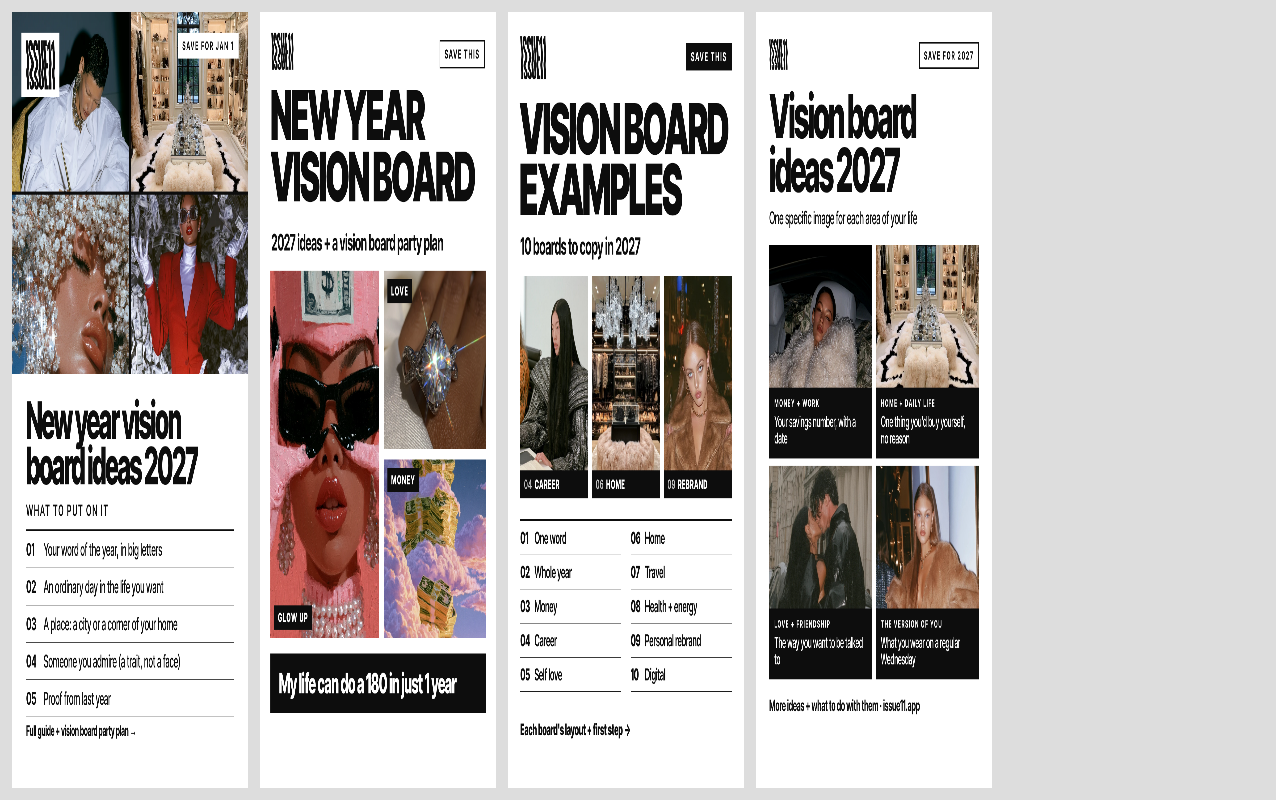
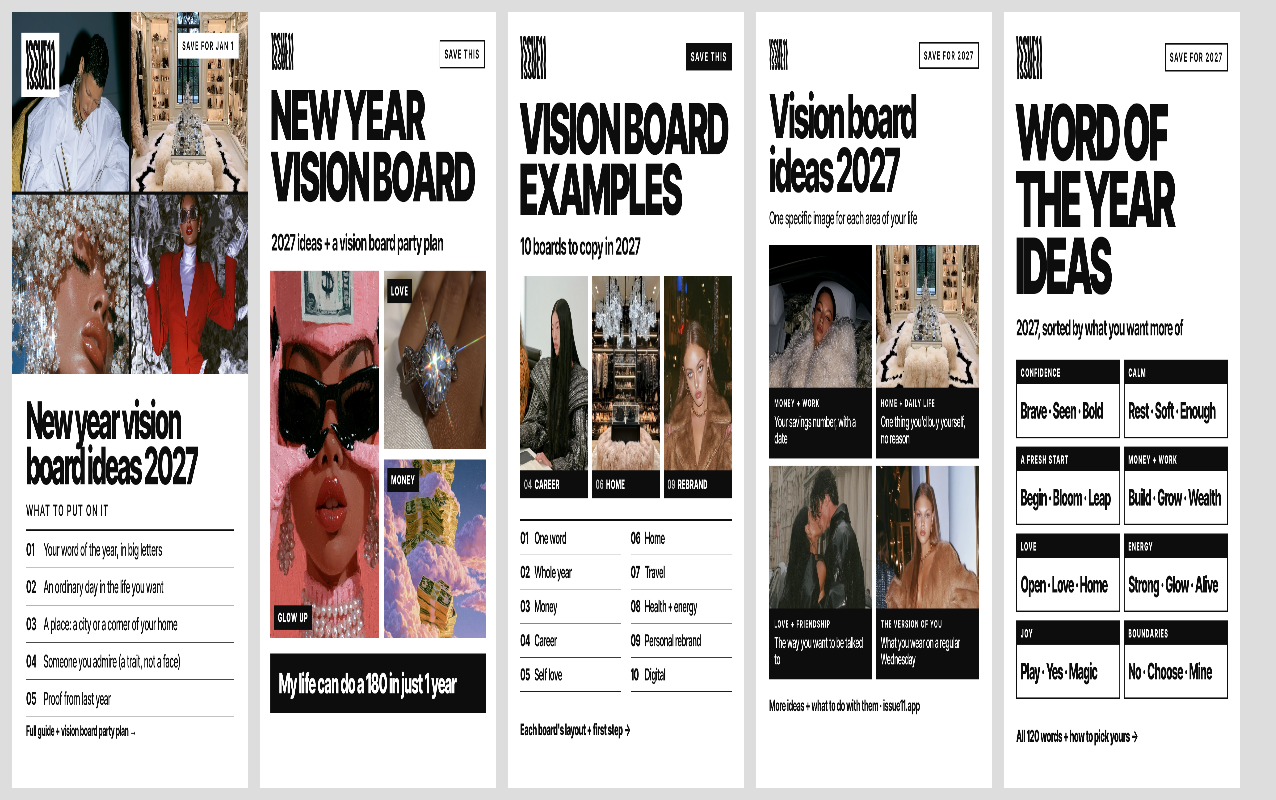
Pinterest hourly: word-of-the-year-ideas article pin (QA passed)
Claude-Session: https://claude.ai/code/session_01YGtmQppBCBt9nypMHzxSp1

Changed region(s): [[0.7641, 0.0, 0.9781, 1.0]]

diff --git a/drafts/pinterest/article-pins/ArticlePinWOTY.dc.html b/drafts/pinterest/article-pins/ArticlePinWOTY.dc.html
@@ -1,0 +1,51 @@
+<!doctype html>
+<html lang="en">
+<head>
+<meta charset="utf-8">
+<title>Article pin · word-of-the-year-ideas · 120 words for 2027</title>
+<script src="./support.js"></script>
+</head>
+<body>
+<x-dc>
+<helmet>
+<link href="https://fonts.googleapis.com/css2?family=Inter+Tight:wght@500;600;700;800;900&amp;display=swap" rel="stylesheet">
+<style>
+body{margin:0}
+.pin{width:1000px;height:1500px;position:relative;overflow:hidden;background:#fff;color:#0D0D0D;font-family:'Inter Tight',system-ui,sans-serif}
+.logo{position:absolute;left:52px;top:46px;height:84px}
+.save{position:absolute;right:52px;top:60px;border:3px solid #0D0D0D;font-weight:700;font-size:24px;letter-spacing:.16em;padding:10px 18px}
+h1{position:absolute;left:48px;right:48px;top:168px;margin:0;font-weight:900;font-size:150px;line-height:.86;letter-spacing:-.055em;text-transform:uppercase}
+.sub{position:absolute;left:52px;top:584px;font-weight:700;font-size:42px;letter-spacing:-.025em}
+.grid{position:absolute;left:52px;right:52px;top:672px;display:grid;grid-template-columns:1fr 1fr;gap:16px}
+.card{border:3px solid #0D0D0D;height:152px;box-sizing:border-box;display:flex;flex-direction:column}
+.card p{margin:0}
+.k{background:#0D0D0D;color:#fff;font-weight:800;font-size:22px;letter-spacing:.14em;text-transform:uppercase;padding:9px 16px}
+.w{flex:1;display:flex;align-items:center;padding:0 16px;font-weight:800;font-size:44px;letter-spacing:-.035em;white-space:nowrap}
+.cta{position:absolute;left:52px;top:1380px;font-size:32px;font-weight:800;letter-spacing:-.015em}
+</style>
+</helmet>
+<div class="pin">
+  <img class="logo" src="/_blob/d196614efc6265e2205729134fb523b8" alt="ISSUE11">
+  <div class="save">SAVE FOR 2027</div>
+  <h1>Word of the year ideas</h1>
+  <div class="sub">2027, sorted by what you want more of</div>
+  <div class="grid">
+    <div class="card"><p class="k">Confidence</p><p class="w">Brave · Seen · Bold</p></div>
+    <div class="card"><p class="k">Calm</p><p class="w">Rest · Soft · Enough</p></div>
+    <div class="card"><p class="k">A fresh start</p><p class="w">Begin · Bloom · Leap</p></div>
+    <div class="card"><p class="k">Money + work</p><p class="w">Build · Grow · Wealth</p></div>
+    <div class="card"><p class="k">Love</p><p class="w">Open · Love · Home</p></div>
+    <div class="card"><p class="k">Energy</p><p class="w">Strong · Glow · Alive</p></div>
+    <div class="card"><p class="k">Joy</p><p class="w">Play · Yes · Magic</p></div>
+    <div class="card"><p class="k">Boundaries</p><p class="w">No · Choose · Mine</p></div>
+  </div>
+  <div class="cta">All 120 words + how to pick yours →</div>
+</div>
+</x-dc>
+<script type="text/x-dc" data-dc-script data-props='{"$preview":{"width":1000,"height":1500}}'>
+class Component extends DCLogic {
+  renderVals() { return {}; }
+}
+</script>
+</body>
+</html>

diff --git a/drafts/pinterest/article-pins/INDEX.md b/drafts/pinterest/article-pins/INDEX.md
@@ -9,7 +9,10 @@ Source boards: Claude Design Lead Magnets canvas (https://claude.ai/artifact/MZr
 | ArticlePinNYVB2 | issue11.app/blog/new-year-vision-board | png/ArticlePinNYVB2.png | New Year Vision Board 2027 Ideas + a Vision Board Party Plan | Collage of glow up, love and money photos under "New Year Vision Board", with the line "My life can do a 180 in just 1 year" | Pass 390 + 236 (Nov 16) | ready for Framer |
 | ArticlePinVBI | issue11.app/blog/vision-board-ideas | png/ArticlePinVBI.png | Vision Board Ideas 2027: One Image for Each Area of Your Life | Four photo cards for money, home, love and the version of you, each with one vision board idea | Pass 390 + 236 (Nov 16) | ready for Framer |
 | ArticlePinVBE | issue11.app/blog/vision-board-examples | png/ArticlePinVBE.png | Vision Board Examples: 10 Boards to Copy in 2027 | "Vision board examples" with career, home and personal rebrand photos and a list of 10 board types, from one word to digital | Pass 390 + 236 (Nov 16) | ready for Framer |
+| ArticlePinWOTY | issue11.app/blog/word-of-the-year-ideas | png/ArticlePinWOTY.png | Word of the Year Ideas 2027: 120 Words + How to Choose Yours | Text-only pin: "Word of the year ideas" over eight boxes of word ideas grouped by what you want more of, from confidence to boundaries | Pass 390 + 236 (Nov 16) | ready for Framer |
 
 Keyword check for ArticlePinVBE: Pinterest autocomplete (Apify, Nov 16) suggests "vision board examples" with "inspiration", "aesthetic", "life", "career" and "manifestation" variants. Raw: `../2026-11-16-vision-board-examples-keywords.json`. No volume figure from Pinterest; Google US 11,000/mo per QUEUE.md.
 
-Next articles without a pin (New Year first): word-of-the-year-ideas · new-year-affirmations · new-year-journal-prompts · december-january-journal-prompts · how-to-make-a-vision-board · journaling-prompts.
+Keyword check for ArticlePinWOTY: Pinterest autocomplete (Apify, Nov 16) top suggestion is "word of the year ideas", then "word of the year vision board", "word of the year journal". Raw: `../2026-11-16-word-of-the-year-keywords.json`. No volume figure. Text-only, no photos, so no AI label needed. Words are copied from the article's list.
+
+Next articles without a pin (New Year first): new-year-affirmations · new-year-journal-prompts · december-january-journal-prompts · how-to-make-a-vision-board · journaling-prompts.

diff --git a/drafts/pinterest/HOURLY-LOG.md b/drafts/pinterest/HOURLY-LOG.md
@@ -1,3 +1,4 @@
 # Pinterest agent: hourly log (newest first)
 
+- 2026-11-16 04:2x UTC · Job 1: made ArticlePinWOTY (word-of-the-year-ideas), a text-only pin with words taken from the article. Added to the canvas (v35) and INDEX.md as "ready for Framer". Visual QA at 390 + 236 passed after one fix: two word rows wrapped, so I swapped in shorter words from the same list.
 - 2026-11-16 03:2x UTC · Re-saved the 3 Nov 16 article pins from the Claude Design canvas (they never reached the branch): ArticlePinNYVB, ArticlePinNYVB2, ArticlePinVBI, now in article-pins/ with PNGs, logged in INDEX.md. Job 1: made ArticlePinVBE (vision-board-examples), added to the canvas (v34) and INDEX.md as "ready for Framer". Visual QA at 390 + 236 passed for all 4. Self-corrected one tile: swapped a cash photo for a rebrand photo because the article says a money board shows what the money is for, "not piles of cash". Note: the articles live at /blog/<slug> (bare /<slug> is a 404).
